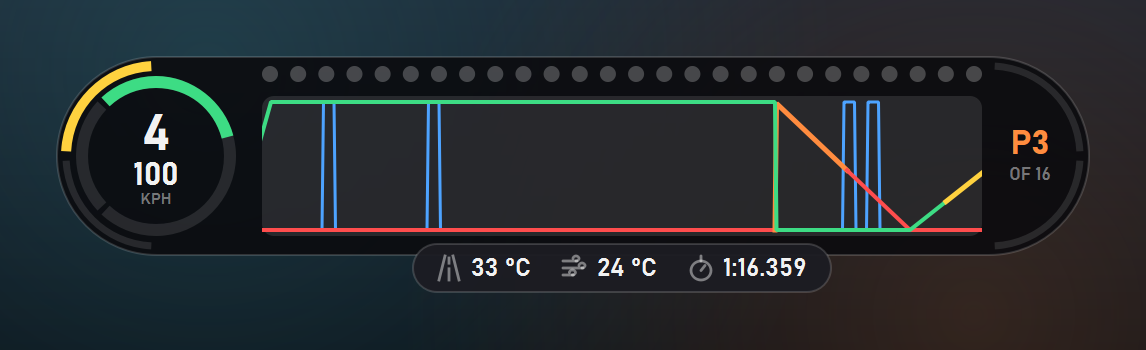
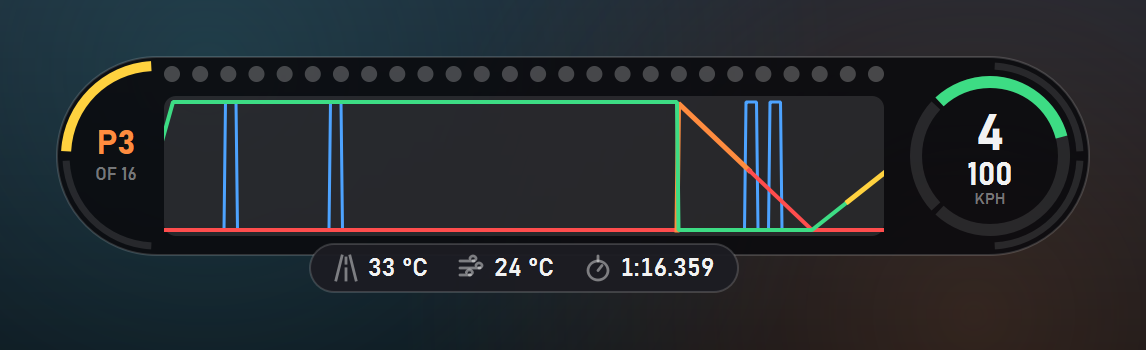
Fix the chip resizing as the lap time ticks; swap ring and position
The chip uses tabular digits and reserves each item's template width (88 C, 8:88.888), so it keeps one width (verified over two demo laps) and the digits don't jitter. The gear ring now sits in the right end and the position in the left end; same 517 px width.

diff --git a/ace_overlay/overlay.py b/ace_overlay/overlay.py
@@ -25,22 +25,21 @@ TEXT = QColor("#f2f2f2")
 DIM = QColor(255, 255, 255, 110)
 
 # The pill. Its rounded ends carry the TC / ABS arcs (left end = car's left wheels, right end = right
-# wheels; upper quarter TC, lower quarter ABS). The gear ring (with the speed) sits inside the left end;
-# then the dot shift lights along the top edge over the trace, then the position. The chip hangs below
-# the bottom edge.
+# wheels; upper quarter TC, lower quarter ABS). The position sits inside the left end; then the dot shift
+# lights along the top edge over the trace; then the gear ring (with the speed) inside the right end.
+# The chip hangs below the bottom edge.
 PH = 100  # pill height
 R = PH // 2  # end radius
 CHIP_H, CHIP_OVERLAP = 24, 6  # the chip only tucks this far up into the pill
 H = PH + CHIP_H - CHIP_OVERLAP + 1
 ARC_R, ARC_W = R - 5, 3.5  # TC / ABS end arcs: radius (to stroke centre) and stroke
-RING_CX, RING_CY, RING_R, RING_W = R, R, 37, 6  # gear ring, concentric with the left end
-CX0 = RING_CX + RING_R + 16  # start of the middle section
+POS_X, POS_W = R - 37, 34  # the position fits inside the left end's half circle
 DOT_Y, DOT_D = 9, 8  # shift-light row centre (close to the top edge) and dot diameter
-TRACE_X, TRACE_Y, TRACE_W = CX0, 20, 360  # the time window is Config.trace_seconds
+TRACE_X, TRACE_Y, TRACE_W = R + 4, 20, 360  # starts right next to the left end; window is Config.trace_seconds
 TRACE_H = PH - CHIP_OVERLAP - 4 - TRACE_Y  # down to just above the chip
-RIGHT_CX = TRACE_X + TRACE_W + 4  # right end's centre: its arcs start right next to the trace
-W = RIGHT_CX + R
-POS_X, POS_W = RIGHT_CX + 3, 34  # the position fits inside the right end's half circle
+RING_R, RING_W = 37, 6
+RING_CX, RING_CY = TRACE_X + TRACE_W + 16 + RING_R, R  # gear ring, concentric with the right end
+W = RING_CX + R
 CHIP_CX = TRACE_X + TRACE_W / 2  # chip centred under the trace
 
 SHIFT_LEDS = 26  # thresholds and colours come from Config
@@ -51,12 +50,15 @@ HIDE_DELAY_S = 2.0  # "only while driving": stay up this long after driving stop
 BASE_FLAGS = Qt.FramelessWindowHint | Qt.WindowStaysOnTopHint | Qt.Tool
 
 
-def font(size, weight=QFont.DemiBold):
-    """Bahnschrift (built into Windows 10+) for the dash look, falling back to Segoe UI."""
+def font(size, weight=QFont.DemiBold, tabular=False):
+    """Bahnschrift (built into Windows 10+) for the dash look, falling back to Segoe UI. `tabular`
+    gives every digit the same width, so ticking numbers don't make the text jitter."""
     f = QFont()
     f.setFamilies(["Bahnschrift", "Segoe UI"])
     f.setPointSizeF(size)
     f.setWeight(weight)
+    if tabular:
+        f.setFeature(QFont.Tag.fromString("tnum"), 1)
     return f
 
 
@@ -378,7 +380,7 @@ class InputsOverlay(OverlayWindow):
         c = self.config
         pct = 100 * f.rpms / f.currentMaxRpm if f.currentMaxRpm > 0 else 0.0
         flash = pct >= c.rpm_flash
-        x0, x1 = CX0 + DOT_D / 2, TRACE_X + TRACE_W - DOT_D / 2
+        x0, x1 = TRACE_X + DOT_D / 2, TRACE_X + TRACE_W - DOT_D / 2
         step = (x1 - x0) / (SHIFT_LEDS - 1)
         p.setPen(Qt.NoPen)
         for i in range(SHIFT_LEDS):
@@ -443,20 +445,23 @@ class InputsOverlay(OverlayWindow):
         """Track temperature · air temperature · current lap, in a chip hanging below the pill."""
         g = self.graphics
         air, road = air_temp(f, g), track_temp(f)
-        items = [(icon_road, f"{road:.0f} °C" if road is not None else "–"),
-                 (icon_wind, f"{air:.0f} °C" if air is not None else "–"),
-                 (icon_stopwatch, lap_time(g.current_lap_time_ms) if g is not None else "–")]
-        p.setFont(font(10))
+        # (icon, text, widest expected text): each item reserves its template's width, so the chip
+        # keeps one size while the lap time ticks.
+        items = [(icon_road, f"{road:.0f} °C" if road is not None else "–", "88 °C"),
+                 (icon_wind, f"{air:.0f} °C" if air is not None else "–", "88 °C"),
+                 (icon_stopwatch, lap_time(g.current_lap_time_ms) if g is not None else "–", "8:88.888")]
+        p.setFont(font(10, tabular=True))
         metrics = p.fontMetrics()
         icon, gap, pad, spacing = 12, 5, 12, 16
-        widths = [icon + gap + metrics.horizontalAdvance(text) for _, text in items]
+        widths = [icon + gap + max(metrics.horizontalAdvance(text), metrics.horizontalAdvance(template))
+                  for _, text, template in items]
         chip_w = sum(widths) + spacing * (len(items) - 1) + 2 * pad
         chip = QRectF(CHIP_CX - chip_w / 2, PH - CHIP_OVERLAP, chip_w, CHIP_H)
         p.setPen(QPen(EDGE, 1))
         p.setBrush(QColor(28, 28, 34, 240))
         p.drawRoundedRect(chip, CHIP_H / 2, CHIP_H / 2)
         x = chip.x() + pad
-        for (draw_icon, text), width in zip(items, widths):
+        for (draw_icon, text, _), width in zip(items, widths):
             draw_icon(p, QRectF(x, chip.center().y() - icon / 2, icon, icon))
             p.setPen(TEXT)
             p.drawText(QRectF(x + icon + gap, chip.y(), width, CHIP_H), Qt.AlignLeft | Qt.AlignVCenter, text)

diff --git a/CLAUDE.md b/CLAUDE.md
@@ -67,13 +67,14 @@ python -m venv .venv && .venv\Scripts\pip install -e .[build,dev]
   be its own window**. See `SideButton` (pin, gear). Those use `WindowDoesNotAcceptFocus` so clicking
   them doesn't take focus from the game.
 - The HUD is a pill. Its rounded ends are thin TC/ABS arc lines (upper quarter TC, lower quarter
-  ABS; left end = car's left wheels, right end = right wheels, via `slipping_sides()`). The gear ring
-  is concentric with the left end. Throttle fills 3/4 clockwise from the top-left (135°) and brake the
-  west quarter, with the gear and speed inside it. Then come the dot shift lights (the only RPM display;
-  there's no RPM number; 26 dots along the top edge) over the trace, which starts at `CX0` and fills
-  the height down to the chip, then the position. A chip (track °C, air °C, current lap) hangs below
-  the bottom edge, overlapping it by `CHIP_OVERLAP`. The layout is
-  constant-driven at the top of `overlay.py` (`PH`, `R`, `RING_*`, `CX0`, `TRACE_*`, `POS_*`, `W`):
+  ABS; left end = car's left wheels, right end = right wheels, via `slipping_sides()`). The position
+  sits inside the left end. Then come the dot shift lights (the only RPM display; there's no RPM
+  number; 26 dots along the top edge) over the trace, which starts right after the left end and fills
+  the height down to the chip. The gear ring is concentric with the right end: throttle fills 3/4
+  clockwise from the top-left (135°) and brake the west quarter, with the gear and speed inside it. A
+  chip (track °C, air °C, current lap) hangs below the bottom edge, overlapping it by `CHIP_OVERLAP`.
+  It uses tabular digits and per-item template widths, so it never resizes as the lap time ticks. The layout is
+  constant-driven at the top of `overlay.py` (`PH`, `R`, `POS_*`, `TRACE_*`, `RING_*`, `W`):
   extend that chain, not hard-coded coordinates. Fonts go through `font()` (Bahnschrift, then Segoe UI).
 - Tyre temperatures, pedal bars and the boost bar were dropped from the HUD in the redesign at the
   user's request. Tyre data lives in the info panel.

diff --git a/README.md b/README.md
@@ -23,12 +23,13 @@
 
 ## Features
 
-- **Gear and pedal ring.** A ring at the left end of the pill, with the gear and speed inside it.
+- **Gear and pedal ring.** A ring at the right end of the pill, with the gear and speed inside it.
   Throttle fills three quarters of it in green, clockwise from the top-left, and brake fills the left
   quarter in red.
 - **Shift lights.** A row of 26 dots along the top edge, with configurable colour zones and flash point. They're also
   the RPM readout.
-- **Position.** Shows as "P19" (with "of 20" underneath) whenever the game ranks the session.
+- **Position.** In the left end of the pill: "P19" (with "of 20" underneath) whenever the game
+  ranks the session.
 - **Real-time input trace.** Scrolling throttle, brake and clutch history. The right edge is always
   your live input, and the time window (2–30 s) can be changed on the fly. The brake line turns orange
   while ABS works, and the throttle line yellow while TC cuts.
